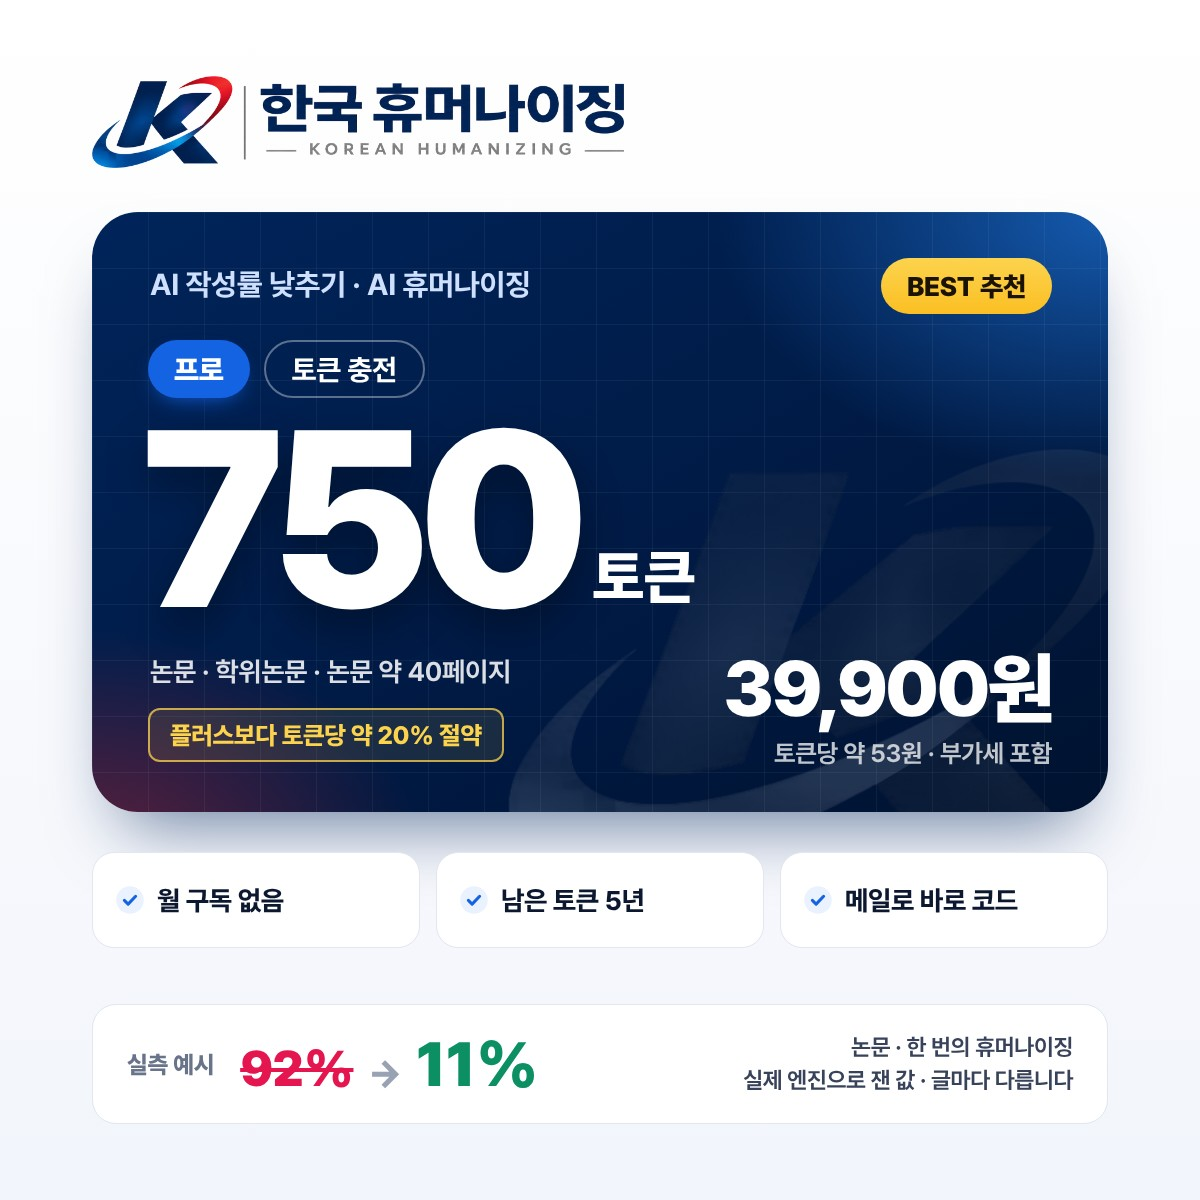
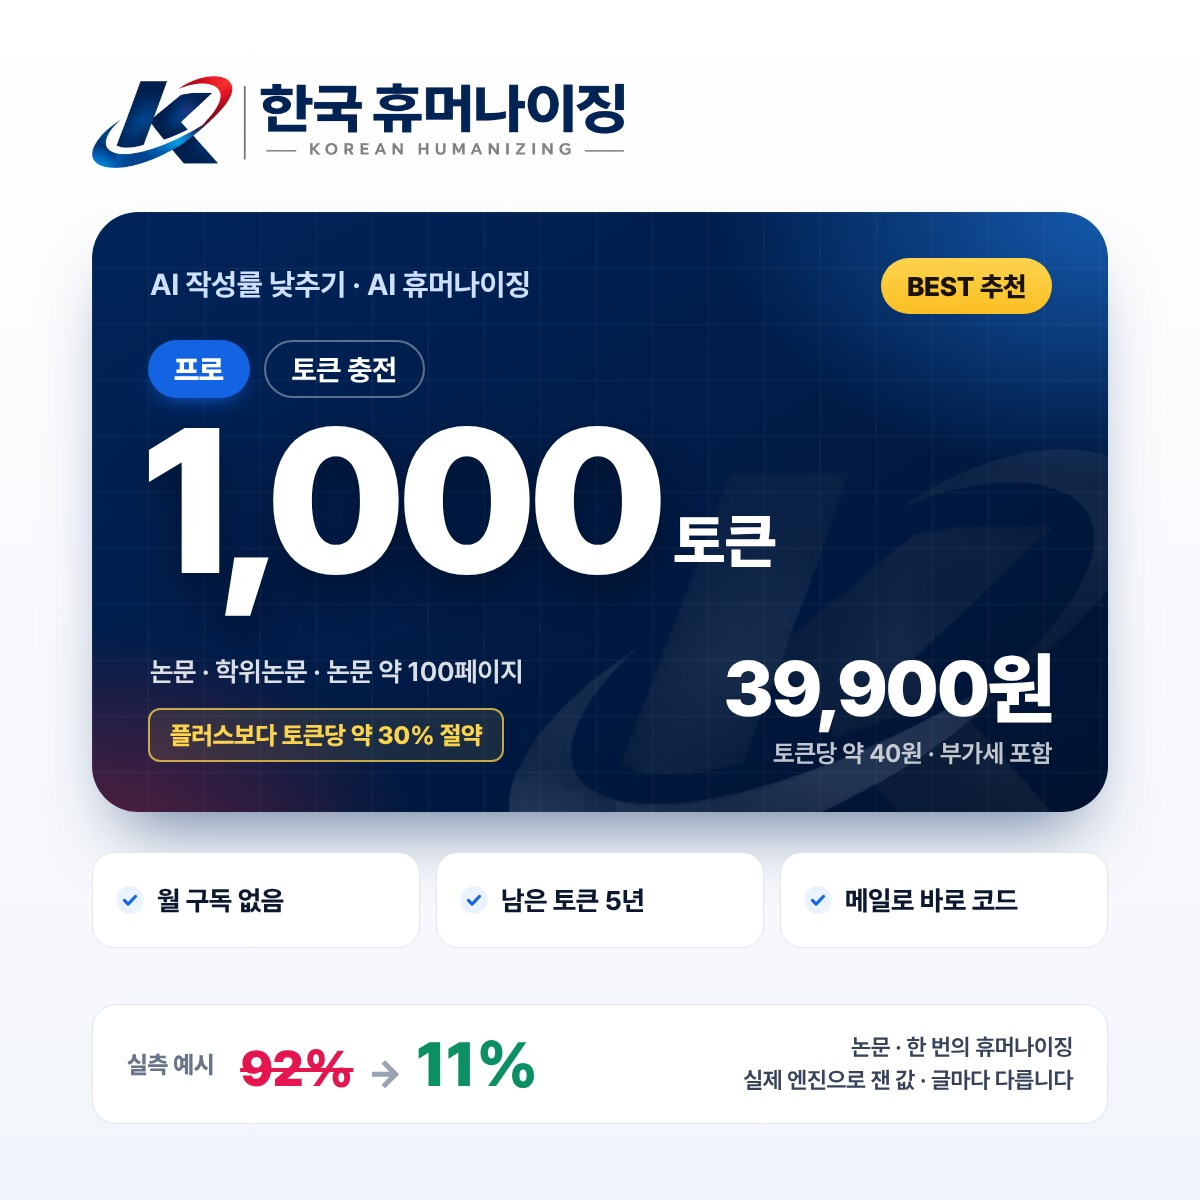
사이트 업데이트

Changed region(s): [[0.1233, 0.3392, 0.6475, 0.6167], [0.6783, 0.6167, 0.74, 0.6475]]

diff --git a/_src/shop/render.py b/_src/shop/render.py
@@ -23,10 +23,10 @@ T = DEMO["samples"][0]
 B_RATE, A_RATE, T_LABEL = T["before"]["rate"], T["after"]["rate"], T["label"]
 
 PACKS = [
-    {"id": "lt", "name": "라이트", "tok": "100", "price": "9,900원", "per": "토큰당 99원", "save": "", "badge": "", "fit": "자기소개서 · 짧은 과제", "pg": "레포트 약 5페이지"},
-    {"id": "pl", "name": "플러스", "tok": "350", "price": "19,900원", "per": "토큰당 약 57원", "save": "", "badge": "", "fit": "레포트 · 과제 여러 편", "pg": "레포트 약 15페이지"},
-    {"id": "pr", "name": "프로", "tok": "1,000", "price": "39,900원", "per": "토큰당 약 40원", "save": "플러스보다 토큰당 약 30% 절약", "badge": "BEST 추천", "fit": "논문 · 학위논문", "pg": "논문 약 40페이지"},
-    {"id": "mx", "name": "맥스", "tok": "2,000", "price": "69,900원", "per": "토큰당 약 35원", "save": "플러스보다 토큰당 약 39% 절약", "badge": "최고 혜택", "fit": "논문 전체 · 여러 편", "pg": "논문 약 100페이지"},
+    {"id": "lt", "name": "라이트", "tok": "100", "price": "9,900원", "per": "토큰당 99원", "save": "", "badge": "", "fit": "자기소개서 · 짧은 과제", "pg": "레포트 약 10페이지"},
+    {"id": "pl", "name": "플러스", "tok": "350", "price": "19,900원", "per": "토큰당 약 57원", "save": "", "badge": "", "fit": "레포트 · 과제 여러 편", "pg": "레포트 약 35페이지"},
+    {"id": "pr", "name": "프로", "tok": "1,000", "price": "39,900원", "per": "토큰당 약 40원", "save": "플러스보다 토큰당 약 30% 절약", "badge": "BEST 추천", "fit": "논문 · 학위논문", "pg": "논문 약 100페이지"},
+    {"id": "mx", "name": "맥스", "tok": "2,000", "price": "69,900원", "per": "토큰당 약 35원", "save": "플러스보다 토큰당 약 39% 절약", "badge": "최고 혜택", "fit": "논문 전체 · 여러 편", "pg": "논문 약 250페이지"},
 ]
 
 CHECK = ('<svg viewBox="0 0 24 24" width="30" height="30" fill="none"><circle cx="12" cy="12" r="11" fill="#ebf2ff"/>'
